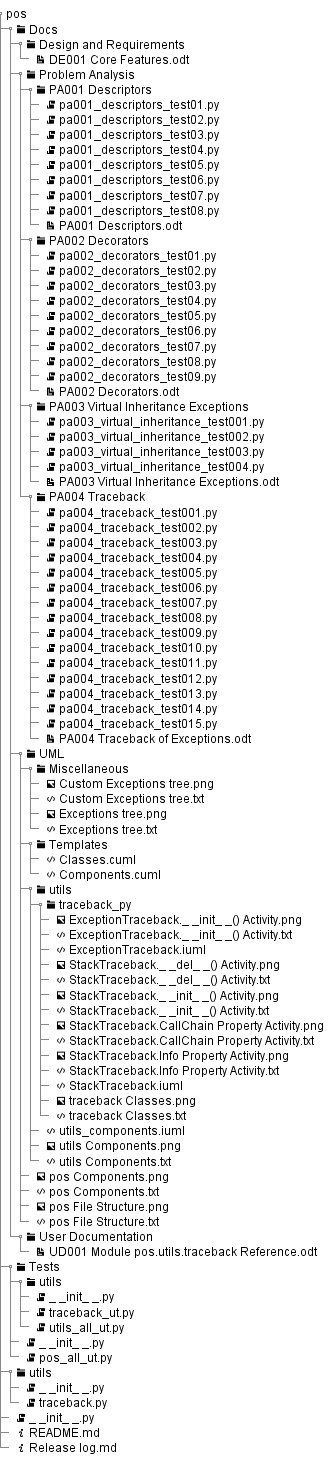
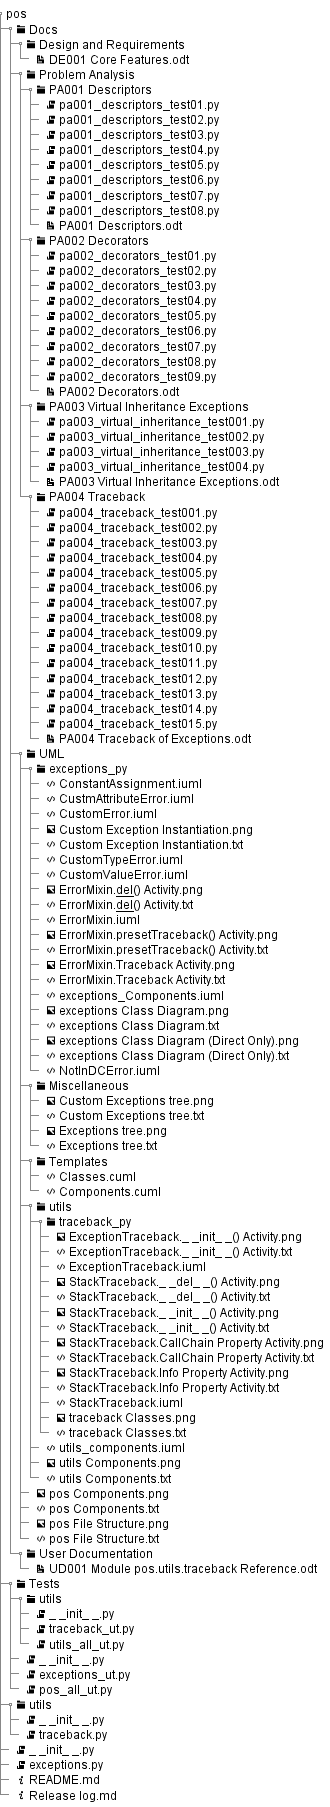
UML documentation

Changed region(s): [[0.0, 0.0, 0.9697, 1.0], [0.7576, 0.5552, 0.8788, 0.586]]

diff --git a/exceptions.py b/exceptions.py
@@ -48,7 +48,7 @@ mix-in class ErrorMixin.
 
 __version__ = "0.0.1.0"
 __date__ = "21-06-2018"
-__status__ = "Development"
+__status__ = "Production"
 
 #imports
 

diff --git a/README.md b/README.md
@@ -52,5 +52,48 @@ Besides, I have some personal grudges with these implementations and my own wish
 
 * package **utils**
   - module **traceback**
-   * class StackTraceback
-   * class ExceptionTraceback
+    * class StackTraceback
+    * class ExceptionTraceback
+* module **exceptions**
+  - class ErrorMixin
+  - class CustomError
+  - class DesignContractError
+  - class ConstantAssignment
+  - class CustomAttributeError
+  - class ConstantAttributeAssignment
+  - class NotExistingAttribute
+  - class PrivateAttributeAccess
+  - class NotInDCError
+  - class CustomTypeError
+  - class DCArgumentType
+  - class DCReturnType
+  - class CustomValueError
+  - class DCArgumentValue
+  - class DCReturnValue
+
+## Functionality
+
+### Core
+
+#### Module exceptions
+
+Custom exceptions with the added functionality for the analysis of the exception traceback, which are integrated into the standard exceptions tree like branches originated from TypeError, ValueError, AttributeError, etc. Virtual subclass relations are also used in order to enable 'umbrella' catching of the custom exceptions closely related by their meaning / situations to be raised in but belonging to the different branches.
+
+These exceptions can be raised with the optional arguments, which allow substitution of the actual traceback of that particular exception by the traceback of another exception (handy if raised as a part of handling of another one) as well as 'hiding' of the specified number of the innermost call frames in the traceback.
+
+Apart from the standard exceptions' arguments **message** and **args** these custom exceptions provide read-only properties **CallChain** and **Info**, which can be used for the analysis of the traceback of a caught exception. The first property returns a list of strings - the fully qualified names of the callers, whereas the second property returns a single string containing multiple lines ('\n' separated) human-readable representation of the traceback frames records.
+
+### Additional
+
+### Utilities - package utils
+
+#### Module traceback
+
+Provides two classes - **StackTraceback** and **ExceptionTraceback** which are useful for the analysis of the the call stack and of the exception traceback. In fact, the added functionality of the custom exceptions is based on the class **ExceptionTraceback**. Both classes have identical API - read-only properties **CallChain** and **Info**, which can be used for the analysis of the traceback of a caught exception. The first property returns a list of strings - the fully qualified names of the callers, whereas the second property returns a single string containing multiple lines ('\n' separated) human-readable representation of the traceback frames records.
+
+The **StackTraceback** provides the traceback in the inverse order with respect to **inspect.stack**() call - the outermost (the first) call is the first element, whereas the innermost (last) call frame is the last element. The traceback starts at the top level of the interpreter's loop (as module '__main__') and ends in the frame where this class has been instantiated.
+
+The **ExceptionTraceback** provides the traceback in the same order as **inspect.trace**() call - the first element is the frame where an exception is being handled, the last element - the frame, where it has been raised.
+
+With the both classes a specified number of the last elements can be 'hidden' / removed from the traceback.
+

diff --git a/Release log.md b/Release log.md
@@ -1,5 +1,9 @@
 # pos Library Release Log
 
+## 2018-06-22
+
+Finished implementation and testing of the custom exceptions with traceback analysis functionality.
+
 ## 2018-06-21
 
 Started implementation of the exceptions - real and virtual subclasses relation.
